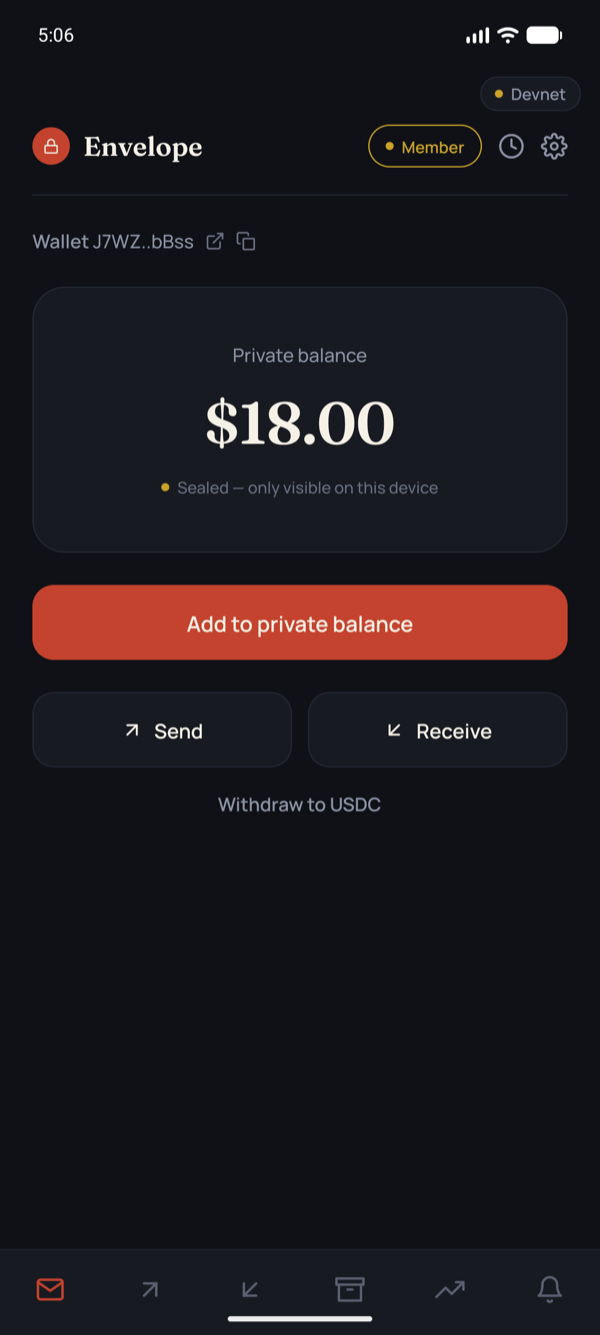
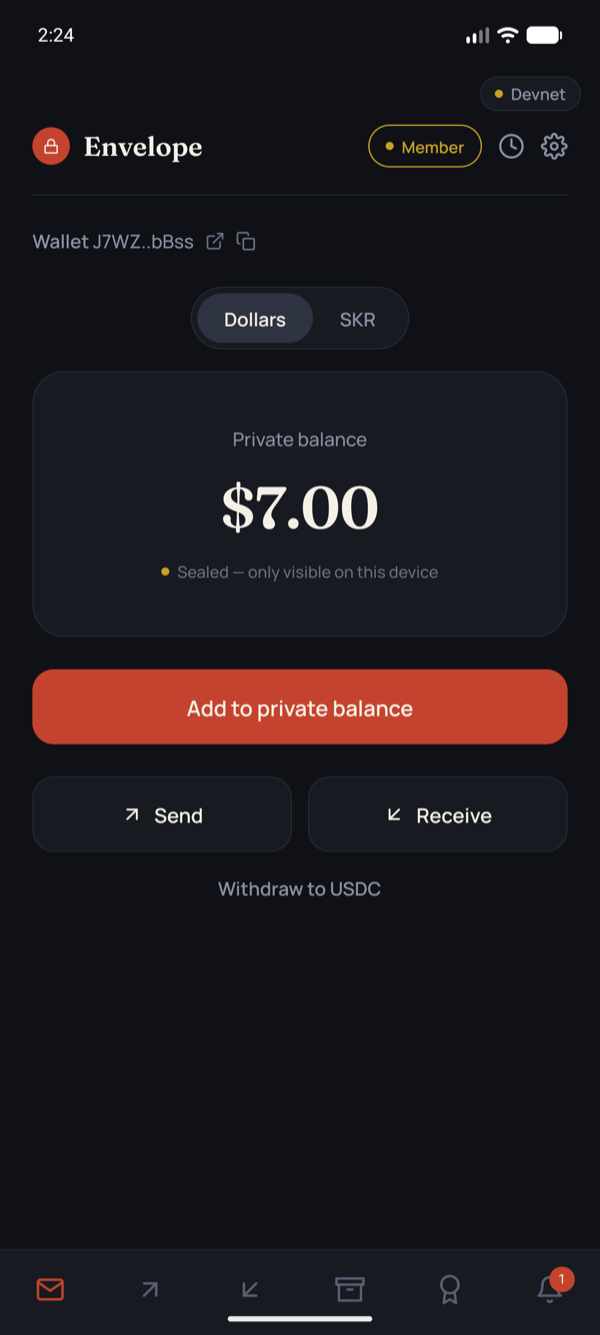
Documentation screenshots update

diff --git a/README.md b/README.md
@@ -32,16 +32,20 @@ By default, every Solana payment is public. Pay a friend for dinner and they —
 
 <table>
   <tr>
-    <td align="center"><img src="docs/screenshots/home.png" width="200" alt="Home: the sealed private balance" /><br /><sub><b>Home</b> — your sealed balance</sub></td>
+    <td align="center"><img src="docs/screenshots/home.png" width="200" alt="Home: the sealed private balance in dollars and SKR" /><br /><sub><b>Home</b> — your sealed balance</sub></td>
     <td align="center"><img src="docs/screenshots/send.png" width="200" alt="Send privately" /><br /><sub><b>Send</b> — amount known only to you and the recipient</sub></td>
+    <td align="center"><img src="docs/screenshots/batch.png" width="200" alt="Batch send to several recipients" /><br /><sub><b>Batch send</b> — several people, one approval</sub></td>
     <td align="center"><img src="docs/screenshots/receive.png" width="200" alt="Receive privately with a QR code and tip link" /><br /><sub><b>Receive</b> — QR code and tip link</sub></td>
-    <td align="center"><img src="docs/screenshots/notifications.png" width="200" alt="Notifications feed" /><br /><sub><b>Notifications</b> — every movement of your funds</sub></td>
   </tr>
   <tr>
     <td align="center"><img src="docs/screenshots/pots.png" width="200" alt="Event pots" /><br /><sub><b>Pots</b> — sealed group gifts</sub></td>
     <td align="center"><img src="docs/screenshots/pot-detail.png" width="200" alt="An event pot: total raised, contributors, invite QR code" /><br /><sub><b>Pot</b> — host sees the total; guests see only their own</sub></td>
-    <td align="center"><img src="docs/screenshots/withdraw.png" width="200" alt="Withdraw private cUSDC back to USDC" /><br /><sub><b>Withdraw</b> — back to regular USDC in one approval</sub></td>
-    <td align="center"><img src="docs/screenshots/stake.png" width="200" alt="Membership plans paid in SKR" /><br /><sub><b>Membership</b> — plans paid in SKR</sub></td>
+    <td align="center"><img src="docs/screenshots/pot-dual.png" width="200" alt="A pot that accepts both dollars and SKR" /><br /><sub><b>Two-token pot</b> — collects dollars and SKR</sub></td>
+    <td align="center"><img src="docs/screenshots/notifications.png" width="200" alt="Notifications feed" /><br /><sub><b>Notifications</b> — every movement of your funds</sub></td>
+  </tr>
+  <tr>
+    <td align="center"><img src="docs/screenshots/withdraw.png" width="200" alt="Withdraw private balance back to USDC or SKR" /><br /><sub><b>Withdraw</b> — back to regular USDC or SKR</sub></td>
+    <td align="center"><img src="docs/screenshots/membership.png" width="200" alt="Membership: Free, Member and Business plans paid in SKR" /><br /><sub><b>Membership</b> — Free, Member and Business plans, paid in SKR</sub></td>
   </tr>
 </table>
 
